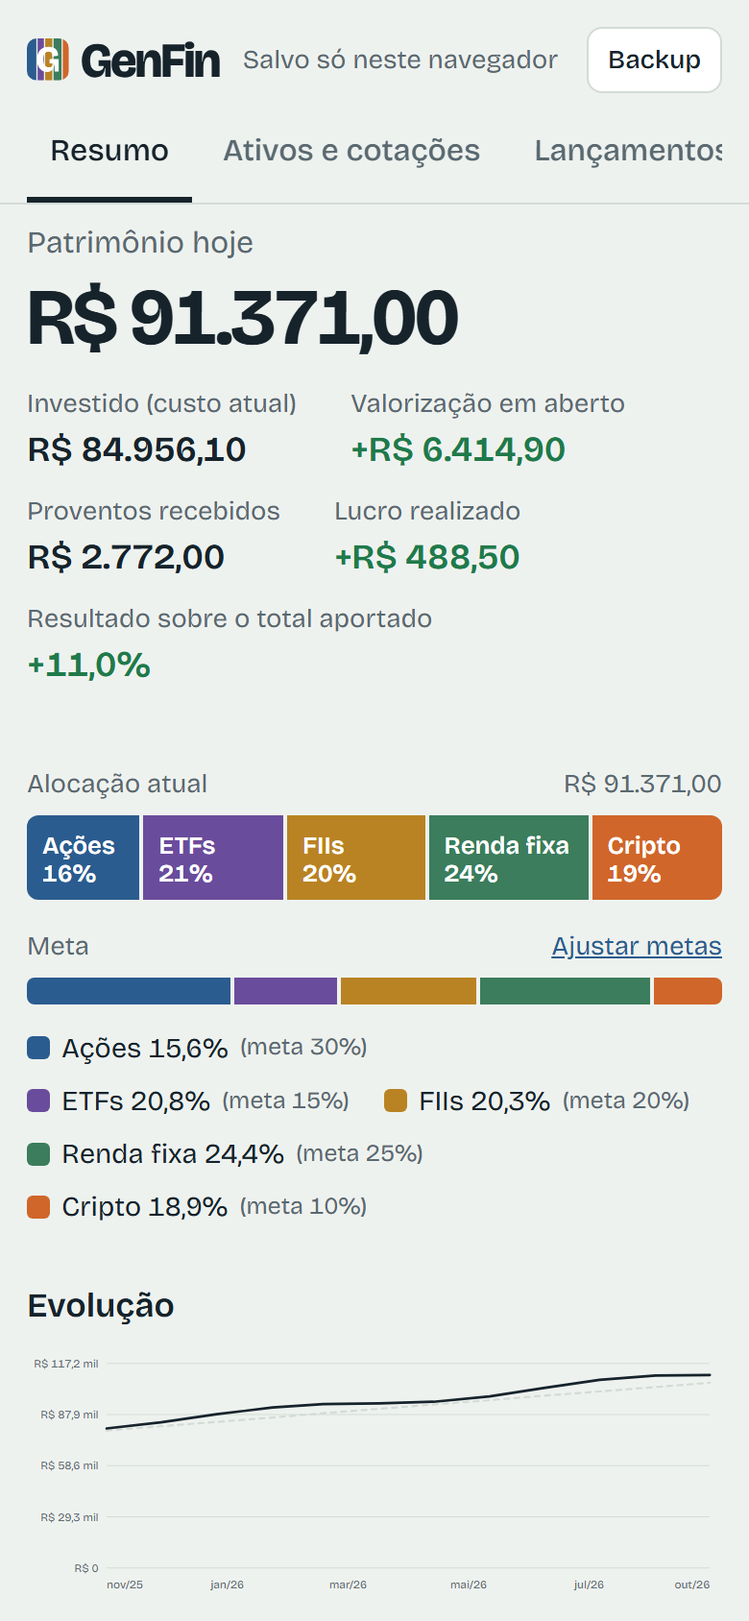
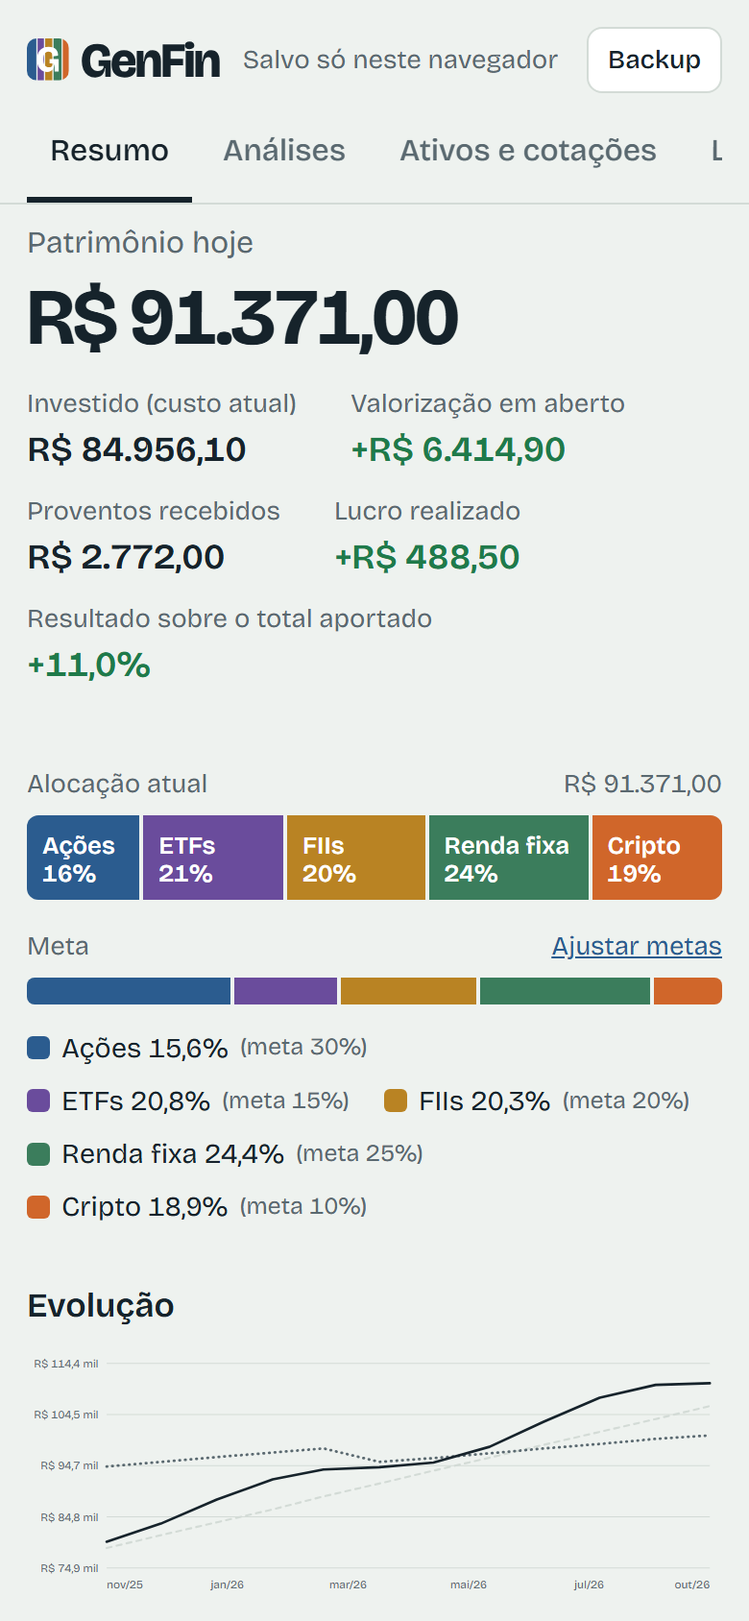
Aba Análises: leituras por regras e resumo opcional com IA (Groq)
- Leituras feitas no aparelho: lançamento inconsistente, concentração acima
  de 20%, distância das metas, cotações antigas, renda fixa desatualizada,
  limites de isenção do mês (ações e cripto), DARF a vencer, prejuízo a
  compensar, CDI e Ibovespa, ativos muito acima ou abaixo do preço médio,
  proventos de 12 meses e lembrete de backup
- Cada leitura tem uma versão sem valores em reais; só ela, percentuais e
  códigos vão para a IA, e a aba mostra exatamente o que é enviado
- Groq com a chave gratuita da pessoa (só no navegador): escolhe o maior
  modelo de texto disponível, pede para não recomendar compra ou venda e
  guarda o último resumo; texto da IA é escapado
- Exportar o backup JSON registra a data, para o lembrete
- 19 testes novos (86 no total)

diff --git a/carteira.html b/carteira.html
@@ -132,6 +132,22 @@ details.chave summary{cursor:pointer;color:var(--focus);width:max-content;max-wi
 .linha-chave input{flex:1 1 220px;min-width:0;border:1px solid var(--line);border-radius:8px;padding:8px 10px;background:var(--bg);color:var(--ink)}
 .altura{max-height:460px;overflow:auto}
 tr.sel{background:var(--soft)}
+
+/* Análises */
+.leituras{display:grid;gap:10px;max-width:760px}
+.leitura{background:var(--surface);border:1px solid var(--line);border-left:4px solid var(--line);border-radius:8px;padding:12px 16px}
+.leitura.atencao{border-left-color:var(--warn)}
+.leitura.positivo{border-left-color:var(--pos)}
+.leitura .nivel{display:block;font-size:.78rem;color:var(--muted)}
+.leitura.atencao .nivel{color:var(--warn)}
+.leitura.positivo .nivel{color:var(--pos)}
+.leitura p{margin:2px 0 6px;color:var(--muted);font-size:.92rem}
+.card.ia{max-width:760px}
+.texto-ia ul{margin:12px 0;padding-left:20px}
+.texto-ia li{margin:6px 0}
+details.enviado{margin-top:8px}
+details.enviado summary{cursor:pointer;color:var(--focus);width:max-content;max-width:100%}
+details.enviado pre{font:12px/1.4 ui-monospace,Menlo,monospace;background:var(--bg);border:1px solid var(--line);border-radius:8px;padding:10px;overflow:auto;max-height:260px;white-space:pre-wrap}
 .acoes-linha{display:inline-flex;gap:6px}
 form.card.editando{border-color:var(--focus);box-shadow:0 0 0 1px var(--focus)}
 .editando-rot{margin:0 0 12px;font-size:.92rem}
@@ -196,6 +212,7 @@ textarea{width:100%;min-height:140px;font:12px/1.4 ui-monospace,Menlo,monospace;
     </div>
     <nav class="abas" role="tablist" id="abas">
       <button role="tab" data-aba="resumo">Resumo</button>
+      <button role="tab" data-aba="analises">Análises</button>
       <button role="tab" data-aba="ativos">Ativos e cotações</button>
       <button role="tab" data-aba="lancamentos">Lançamentos</button>
       <button role="tab" data-aba="proventos">Proventos</button>
@@ -208,6 +225,7 @@ textarea{width:100%;min-height:140px;font:12px/1.4 ui-monospace,Menlo,monospace;
 
 <main class="wrap">
   <section id="v-resumo"></section>
+  <section id="v-analises" hidden></section>
   <section id="v-ativos" hidden></section>
   <section id="v-lancamentos" hidden></section>
   <section id="v-proventos" hidden></section>
@@ -251,7 +269,7 @@ const ORDEM = ["acao","etf","fii","rf","cripto"];
 const MESES = ["jan","fev","mar","abr","mai","jun","jul","ago","set","out","nov","dez"];
 const TIPOS_PROV = { dividendo:"Dividendo", jcp:"JCP", rendimento:"Rendimento", outro:"Outro" };
 const LS_KEY = "carteira-v1";
-const ABAS = ["resumo","ativos","lancamentos","proventos","rebalancear","ir","noticias"];
+const ABAS = ["resumo","analises","ativos","lancamentos","proventos","rebalancear","ir","noticias"];
 
 const BRL = new Intl.NumberFormat("pt-BR",{style:"currency",currency:"BRL"});
 const brl = v => BRL.format(Number.isFinite(v)?v:0);
@@ -500,7 +518,7 @@ function irPara(aba){
 }
 function renderTudo(){ atualizarDatalist(); render(abaAtual); $("#aviso-demo").classList.toggle("oculto", !demo); }
 function render(aba){
-  const f = { resumo:rResumo, ativos:rAtivos, lancamentos:rLancamentos, proventos:rProventos, rebalancear:rRebalancear, ir:rIR, noticias:rNoticias }[aba];
+  const f = { resumo:rResumo, analises:rAnalises, ativos:rAtivos, lancamentos:rLancamentos, proventos:rProventos, rebalancear:rRebalancear, ir:rIR, noticias:rNoticias }[aba];
   f($("#v-"+aba));
 }
 function atualizarDatalist(){
@@ -794,6 +812,183 @@ function comparacao(){
   const fl = fluxosCaixa(); if(!fl.length) return null;
   const cdi = Object.keys(indices.cdi.serie).length && indices.cdi.desde && indices.cdi.desde<=fl[0].data ? simularCDI(fl, indices.cdi.serie) : null;
   return {desde: fl[0].data, cdi, ibov: simularIbov(fl, indices.ibov.serie)};
+}
+
+/* ---------- Análises ---------- */
+// Leituras da carteira feitas por regras, no próprio aparelho: nada sai daqui.
+// Cada leitura tem o texto da tela e "ia", uma versão sem valores em reais, a única que pode ir para a IA.
+const LS_BACKUP = "genfin-backup-em";
+const NIVEIS = { atencao:"Atenção", positivo:"Bom sinal", info:"Para acompanhar" };
+function diasDesde(iso){ return Math.round((Date.parse(hojeISO()+"T12:00") - Date.parse(iso+"T12:00"))/864e5); }
+function analisar(){
+  const out = []; if(!temDados(S)) return out;
+  const add = (nivel, titulo, detalhe, ia, acao) => out.push({nivel, titulo, detalhe, ia, acao});
+  const c = calcular(), total = c.total, abertas = c.lista.filter(p=>p.qtd>0);
+  const peso = p => total>0 ? p.valor/total : 0;
+
+  const prob = vendaSemSaldo(S.txs);
+  if(prob) add("atencao", "Há um lançamento inconsistente", `${descreverVenda(prob.tx)} passa do saldo que havia na data. Preço médio e imposto desse ativo ficam errados até corrigir.`, null, {aba:"lancamentos", rotulo:"Ver lançamentos"});
+
+  // Concentração: um ativo de renda variável acima de 20% do total (renda fixa tem outra natureza de risco)
+  abertas.filter(p=>p.classe!=="rf" && peso(p)>0.2).sort((a,b)=>b.valor-a.valor).forEach(p=>
+    add("atencao", `${p.ticker} é ${pct(peso(p),0)} da carteira`, "Um único ativo acima de 20% do total concentra o risco: um problema nele pesa na carteira inteira.", `${p.ticker} representa ${pct(peso(p),0)} da carteira`));
+
+  // Metas de alocação
+  const soma = ORDEM.reduce((s,k)=>s+(S.metas[k]||0),0);
+  if(Math.abs(soma-100)<0.01 && total>0){
+    ORDEM.forEach(k=>{
+      const atual = c.porClasse[k]/total, meta = (S.metas[k]||0)/100, pp = (atual-meta)*100;
+      if(Math.abs(pp)>=5) add(Math.abs(pp)>=10?"atencao":"info", `${CLASSES[k].nome} ${pp<0?"abaixo":"acima"} da meta em ${Math.abs(pp).toLocaleString("pt-BR",{maximumFractionDigits:0})} p.p.`,
+        `Hoje ${pct(atual)}, meta de ${pct(meta,0)}. ${pp<0?`Faltam ${brl(total*meta-c.porClasse[k])} para chegar lá.`:"Novos aportes nas outras classes aproximam da meta sem precisar vender."}`,
+        `${CLASSES[k].nome}: ${pct(atual)} da carteira contra meta de ${pct(meta,0)}`, {aba:"rebalancear", rotulo:"Rebalancear"});
+    });
+  } else if(soma===0) add("info", "Sem metas de alocação", "Com metas por classe, o app mostra o quanto a carteira se afastou delas e como dividir cada aporte.", null, {aba:"rebalancear", rotulo:"Definir metas"});
+
+  // Cotações antigas: renda variável com mais de 3 dias, renda fixa com mais de 45
+  const rvVelhas = abertas.filter(p=>p.classe!=="rf" && (!S.precos[p.ticker] || diasDesde(S.precos[p.ticker].em)>3)).map(p=>p.ticker);
+  if(rvVelhas.length) add("atencao", `${rvVelhas.length===1?"1 ativo está":rvVelhas.length+" ativos estão"} com cotação antiga ou sem cotação`, `${rvVelhas.join(", ")}. Sem cotação, o ativo entra pelo preço médio e o patrimônio fica impreciso.`, null, {aba:"ativos", rotulo:"Atualizar cotações"});
+  const rfVelhas = abertas.filter(p=>p.classe==="rf" && (!S.precos[p.ticker] || diasDesde(S.precos[p.ticker].em)>45)).map(p=>p.ticker);
+  if(rfVelhas.length) add("info", "Atualize o valor da renda fixa", `${rfVelhas.join(", ")}: sem atualização há mais de 45 dias, o título aparece pelo último valor informado ou pelo valor aplicado.`, null, {aba:"ativos", rotulo:"Atualizar valores"});
+
+  // Imposto de renda do mês: perto dos limites de isenção e DARF a vencer
+  const mes = hojeISO().slice(0,7), doMes = cl => c.vendas.filter(v=>v.mes===mes && v.classe===cl);
+  const vAcao = doMes("acao").reduce((s,v)=>s+v.venda,0), lAcao = doMes("acao").reduce((s,v)=>s+v.lucro,0);
+  if(vAcao>=15000 && vAcao<=20000) add("atencao", "Vendas de ações perto do limite de isenção", `${brl(vAcao)} vendidos em ações neste mês. Até ${brl(20000)}, o lucro é isento; faltam ${brl(20000-vAcao)}.`, `vendas de ações do mês em ${pct(vAcao/20000,0)} do limite de isenção de IR`, {aba:"ir", rotulo:"Ver imposto"});
+  else if(vAcao>20000 && lAcao>0) add("atencao", "Vendas de ações passaram do limite de isenção", `${brl(vAcao)} vendidos neste mês: o lucro de ${brl(lAcao)} paga 15%, com DARF até o fim do mês que vem.`, "vendas de ações do mês passaram do limite de isenção, com lucro tributável", {aba:"ir", rotulo:"Ver imposto"});
+  const vCr = doMes("cripto").reduce((s,v)=>s+v.venda,0);
+  if(vCr>=25000 && vCr<=35000) add("atencao", "Vendas de cripto perto do limite de isenção", `${brl(vCr)} vendidos em cripto neste mês. Até ${brl(35000)}, o ganho é isento; faltam ${brl(35000-vCr)}.`, `vendas de cripto do mês em ${pct(vCr/35000,0)} do limite de isenção de IR`, {aba:"ir", rotulo:"Ver imposto"});
+  const apur = apurarIR(), [ya, ma] = mes.split("-").map(Number);
+  const ant = ma===1 ? `${ya-1}-12` : `${ya}-${String(ma-1).padStart(2,"0")}`;
+  const darf = apur[ant] ? apur[ant].pagar6015 + apur[ant].pagar4600 : 0;
+  if(darf>0) add("atencao", `DARF de ${brl(darf)} vence em ${dataBR(isoLocal(ultimoDiaUtil(ya, ma)))}`, `Imposto das vendas de ${mesBR(ant)}. O vencimento mostrado não considera feriados.`, "há DARF de imposto sobre vendas a pagar neste mês", {aba:"ir", rotulo:"Ver apuração"});
+  const ultMes = Object.keys(apur).sort().pop();
+  if(ultMes && (apur[ultMes].prejRV>0 || apur[ultMes].prejFII>0)) add("info", "Prejuízo para abater de lucros futuros", `${apur[ultMes].prejRV>0?brl(apur[ultMes].prejRV)+" em ações e ETFs":""}${apur[ultMes].prejRV>0&&apur[ultMes].prejFII>0?" e ":""}${apur[ultMes].prejFII>0?brl(apur[ultMes].prejFII)+" em FIIs":""}. Ele reduz o imposto de vendas com lucro mais à frente.`, "há prejuízo acumulado em renda variável para compensar no imposto");
+
+  // Desempenho contra o CDI e o Ibovespa
+  const comp = comparacao();
+  if(comp && comp.cdi && Math.abs(comp.cdi.saldo)>0){
+    const rel = (total-comp.cdi.saldo)/Math.abs(comp.cdi.saldo);
+    add(rel>=0?"positivo":"atencao", `Carteira ${rel>=0?"à frente":"atrás"} do CDI em ${pct(Math.abs(rel))}`, `Com os mesmos aportes, vendas e proventos desde ${dataBR(comp.desde)}, o CDI teria ${brl(comp.cdi.saldo)}; a carteira tem ${brl(total)}.`, `carteira ${pctSinal(rel)} em relação ao mesmo dinheiro no CDI desde ${dataBR(comp.desde)}`);
+  }
+  if(comp && comp.ibov && Math.abs(comp.ibov.saldo)>0){
+    const rel = (total-comp.ibov.saldo)/Math.abs(comp.ibov.saldo);
+    add("info", `Carteira ${rel>=0?"à frente":"atrás"} do Ibovespa em ${pct(Math.abs(rel))}${comp.ibov.aproximado?" (aproximado)":""}`, `O mesmo dinheiro no índice teria ${brl(comp.ibov.saldo)}.`, `carteira ${pctSinal(rel)} em relação ao mesmo dinheiro no Ibovespa${comp.ibov.aproximado?" (aproximado)":""}`);
+  }
+
+  // Ativos muito acima ou abaixo do preço médio
+  abertas.filter(p=>p.classe!=="rf" && p.custo>0 && p.cot!=null && p.resultado/p.custo<=-0.2).sort((a,b)=>a.resultado/a.custo-b.resultado/b.custo).slice(0,3).forEach(p=>
+    add("info", `${p.ticker} está ${pct(-p.resultado/p.custo,0)} abaixo do preço médio`, `Preço médio ${brl(p.pm)}, cotação ${brl(p.cot)}. Vale rever se o motivo da compra continua de pé.`, `${p.ticker} ${pctSinal(p.resultado/p.custo)} contra o preço médio`));
+  abertas.filter(p=>p.classe!=="rf" && p.custo>0 && p.cot!=null && p.resultado/p.custo>=0.5).sort((a,b)=>b.resultado/b.custo-a.resultado/a.custo).slice(0,3).forEach(p=>
+    add("positivo", `${p.ticker} valorizou ${pct(p.resultado/p.custo,0)}`, `Preço médio ${brl(p.pm)}, cotação ${brl(p.cot)}. Com a alta, o peso dele na carteira também cresceu: hoje ${pct(peso(p))}.`, `${p.ticker} ${pctSinal(p.resultado/p.custo)} contra o preço médio, peso de ${pct(peso(p))}`));
+
+  // Proventos: últimos 12 meses contra os 12 anteriores
+  const hoje = hojeISO(), lim1 = somarDias(hoje,-365), lim2 = somarDias(hoje,-730);
+  const p12 = S.provs.filter(p=>p.data>lim1).reduce((s,p)=>s+p.valor,0), p24 = S.provs.filter(p=>p.data>lim2 && p.data<=lim1).reduce((s,p)=>s+p.valor,0);
+  const custoRV = abertas.filter(p=>p.classe!=="rf").reduce((s,p)=>s+p.custo,0);
+  if(p12>0 && custoRV>0) add("info", `Proventos de ${pct(p12/custoRV)} sobre o custo em 12 meses`, `${brl(p12)} recebidos, ${brl(p12/12)} por mês em média.${p24>0?` Nos 12 meses anteriores foram ${brl(p24)} (${pctSinal(p12/p24-1)}).`:""}`, `proventos dos últimos 12 meses equivalem a ${pct(p12/custoRV)} do custo da renda variável${p24>0?`, ${pctSinal(p12/p24-1)} contra os 12 meses anteriores`:""}`, {aba:"proventos", rotulo:"Ver proventos"});
+
+  // Backup: cada aparelho guarda os próprios dados
+  const bk = Number(lerLS(LS_BACKUP)||0), dBk = bk ? Math.floor((Date.now()-bk)/864e5) : null;
+  if(S.txs.length && (dBk===null || dBk>30)) add("info", dBk===null ? "Nenhum backup feito neste aparelho" : `Último backup há ${dBk} dias`, "Os dados ficam só neste aparelho. Um backup recente evita perder tudo se o navegador for limpo ou o celular trocado.", null, {act:"backup", rotulo:"Fazer backup"});
+
+  const ordem = {atencao:0, positivo:1, info:2};
+  return out.sort((a,b)=>ordem[a.nivel]-ordem[b.nivel]);
+}
+
+/* Resumo com IA (opcional): Groq, com a chave gratuita da pessoa, guardada só neste navegador.
+   Vão só percentuais, códigos e as leituras acima na versão sem valores em reais. */
+const LS_GROQ = "genfin-groq-chave", LS_IA = "genfin-ia-resumo";
+let gerandoIA = false;
+function dadosParaIA(){
+  const c = calcular(), total = c.total, comp = comparacao();
+  const soma = ORDEM.reduce((s,k)=>s+(S.metas[k]||0),0);
+  const r1 = v => Math.round(v*1000)/10;   // fração -> percentual com 1 casa
+  const ganho = (c.total-c.custo)+c.realizado+c.provs;
+  return {
+    data: hojeISO(),
+    classes: ORDEM.filter(k=>c.porClasse[k]>0 || S.metas[k]>0).map(k=>({classe:CLASSES[k].nome, carteira_pct: total>0?r1(c.porClasse[k]/total):0, meta_pct: soma>0?r1((S.metas[k]||0)/soma):null})),
+    posicoes: c.lista.filter(p=>p.qtd>0).sort((a,b)=>b.valor-a.valor).slice(0,15).map(p=>({ativo:p.ticker, classe:CLASSES[p.classe].nome, peso_pct: total>0?r1(p.valor/total):0, resultado_pct: p.custo>0?r1(p.resultado/p.custo):null})),
+    resultado_sobre_aportado_pct: c.aportado>0 ? r1(ganho/c.aportado) : null,
+    contra_cdi_pct: comp && comp.cdi && comp.cdi.saldo ? r1((total-comp.cdi.saldo)/Math.abs(comp.cdi.saldo)) : null,
+    contra_ibovespa_pct: comp && comp.ibov && comp.ibov.saldo ? r1((total-comp.ibov.saldo)/Math.abs(comp.ibov.saldo)) : null,
+    desde: comp ? comp.desde : null,
+    leituras: analisar().filter(a=>a.ia).map(a=>a.ia)
+  };
+}
+const INSTRUCAO_IA = "Você ajuda uma pessoa física no Brasil a entender a própria carteira de investimentos. Responda em português do Brasil, em no máximo 6 tópicos curtos, cada um começando com \"- \". Explique o que os números mostram (concentração, distância das metas, desempenho contra o CDI e o Ibovespa, proventos, pontos de imposto de renda) e o que vale a pessoa verificar. Não recomende comprar ou vender ativos específicos, não faça previsão de preços e não invente dados que não estejam na mensagem. Os dados vêm só em percentuais, sem valores em reais.";
+async function modeloGroq(chave){
+  let r; try{ r = await fetch("https://api.groq.com/openai/v1/models", {headers:{Authorization:"Bearer "+chave}, ...comPrazo()}); }
+  catch(e){ throw erroCot("rede"); }
+  if(r.status===401) throw erroCot("chave");
+  if(!r.ok) throw erroCot("servico");
+  const ids = ((await r.json()).data||[]).map(m=>m.id);
+  // Os modelos do Groq mudam; prefere os maiores de texto e evita os de áudio, moderação e busca
+  for(const p of [/^openai\/gpt-oss-120b$/, /^llama-3\.3-70b/, /llama-4-maverick/, /^qwen/, /llama/])
+    { const m = ids.find(id=>p.test(id)); if(m) return m; }
+  return ids.find(id=>!/whisper|guard|tts|embed|playai|compound|prompt/i.test(id)) || null;
+}
+async function gerarResumoIA(){
+  if(gerandoIA) return;
+  const chave = lerLS(LS_GROQ); if(!chave){ toast("Cole a chave do Groq antes de gerar o resumo."); return; }
+  if(demo){ toast("No modo exemplo os dados são fictícios; saia do exemplo para gerar o resumo."); return; }
+  gerandoIA = true; if(abaAtual==="analises") render("analises");
+  let res;
+  try{
+    const modelo = await modeloGroq(chave);
+    if(!modelo) throw erroCot("servico");
+    let r; try{
+      r = await fetch("https://api.groq.com/openai/v1/chat/completions", {method:"POST", headers:{Authorization:"Bearer "+chave, "Content-Type":"application/json"},
+        body: JSON.stringify({model:modelo, temperature:0.3, max_tokens:900, messages:[{role:"system", content:INSTRUCAO_IA}, {role:"user", content:"Dados da carteira:\n"+JSON.stringify(dadosParaIA())}]}), ...comPrazo()});
+    }catch(e){ throw erroCot("rede"); }
+    if(r.status===401) throw erroCot("chave");
+    if(r.status===429) throw erroCot("limite");
+    if(!r.ok) throw erroCot("servico");
+    const j = await r.json(), texto = j.choices && j.choices[0] && j.choices[0].message && j.choices[0].message.content;
+    if(!texto) throw erroCot("servico");
+    res = {texto: String(texto).trim(), modelo, em: Date.now()};
+    gravarLS(LS_IA, JSON.stringify(res));
+  }catch(e){
+    toast({chave:"O Groq recusou a chave. Confira a chave e cole de novo.", limite:"O Groq atingiu o limite do plano gratuito. Tente daqui a pouco.", rede:"Não foi possível acessar o Groq. Confira a internet."}[e.tipo] || "O Groq não respondeu como esperado. Tente de novo.");
+  }finally{ gerandoIA = false; if(abaAtual==="analises") render("analises"); }
+}
+// Texto da IA: escapado e com os tópicos "- " virando lista
+function textoIA(t){
+  const linhas = String(t).replace(/\*\*/g,"").split("\n").map(l=>l.trim()).filter(Boolean);
+  let html = "", lista = false;
+  for(const l of linhas){
+    const item = /^[-•*]\s+/.test(l);
+    if(item && !lista){ html += "<ul>"; lista = true; } else if(!item && lista){ html += "</ul>"; lista = false; }
+    html += item ? `<li>${esc(l.replace(/^[-•*]\s+/,""))}</li>` : `<p>${esc(l)}</p>`;
+  }
+  return html + (lista ? "</ul>" : "");
+}
+function rAnalises(el){
+  if(!temDados(S)){ el.innerHTML = `<h2>Análises</h2><p class="sub">As leituras aparecem depois do primeiro lançamento. <button class="link" data-act="ir-aba" data-aba="lancamentos">Adicionar lançamento</button></p>`; return; }
+  const itens = analisar(), chave = lerLS(LS_GROQ);
+  let ult = null; try{ ult = JSON.parse(lerLS(LS_IA)||"null"); }catch(e){}
+  el.innerHTML = `<h2>Análises</h2>
+  <p class="sub">Leituras automáticas da carteira, feitas neste aparelho com as regras do app. Servem para chamar atenção, não são recomendação de investimento.</p>
+  <div class="leituras">${itens.length ? itens.map(i=>`<div class="leitura ${i.nivel}">
+    <span class="nivel">${NIVEIS[i.nivel]}</span><strong>${esc(i.titulo)}</strong><p>${esc(i.detalhe)}</p>
+    ${i.acao ? (i.acao.aba ? `<button class="link" data-act="ir-aba" data-aba="${i.acao.aba}">${esc(i.acao.rotulo)}</button>` : `<button class="link" data-act="${i.acao.act}">${esc(i.acao.rotulo)}</button>`) : ""}
+  </div>`).join("") : `<p class="nota">Nada chamando atenção agora.</p>`}</div>
+
+  <h3>Resumo com IA</h3>
+  <div class="card ia">
+    ${chave ? `<div class="cotbar"><button class="btn pri" data-act="gerar-ia"${gerandoIA?" disabled":""}>${gerandoIA?"Gerando resumo…":(ult?"Gerar de novo":"Gerar resumo")}</button>
+      <span class="nota">${ult ? `Gerado ${new Date(ult.em).toLocaleDateString("pt-BR")} às ${new Date(ult.em).toLocaleTimeString("pt-BR",{hour:"2-digit",minute:"2-digit"})}, modelo ${esc(ult.modelo)}` : "Leva alguns segundos."}</span></div>
+      ${ult ? `<div class="texto-ia">${textoIA(ult.texto)}</div><p class="nota">Texto gerado por IA a partir dos dados abaixo; pode conter erros. Confira antes de decidir qualquer coisa.</p>` : ""}`
+    : `<p class="nota" style="margin-top:0">Opcional: um texto curto escrito por IA a partir das leituras acima, pelo <a href="https://console.groq.com/keys" target="_blank" rel="noopener noreferrer">Groq</a>, que tem plano gratuito. Crie uma chave lá e cole aqui. Ela fica só neste navegador.</p>`}
+    <details class="chave"${chave?"":" open"}>
+      <summary>${chave?"Chave do Groq configurada":"Configurar a chave do Groq"}</summary>
+      <div class="linha-chave"><input id="chave-groq" type="password" autocomplete="off" spellcheck="false" placeholder="${chave?"Cole uma nova chave para trocar":"Cole a chave aqui"}" aria-label="Chave do Groq">
+        <button class="btn" data-act="salvar-groq">Salvar chave</button>${chave?`<button class="btn perigo" data-act="remover-groq" data-armar="Confirmar">Remover</button>`:""}</div>
+    </details>
+    <details class="enviado"><summary>O que vai para o Groq</summary>
+      <p class="nota">Só percentuais, códigos dos ativos e as leituras na versão sem valores em reais. Quantidades, preços e o patrimônio não saem do aparelho.</p>
+      <pre>${esc(JSON.stringify(dadosParaIA(), null, 1))}</pre>
+    </details>
+  </div>`;
 }
 
 /* ---------- Ativos e cotações ---------- */
@@ -1322,7 +1517,7 @@ document.addEventListener("click", e=>{
   else if(a==="del-prov"){ if(demo){ toast("No modo exemplo nada é alterado."); return; } delProv(b.dataset.id); }
   else if(a==="backup"){ $("#backup-texto").classList.add("oculto"); $("#backup-msg").textContent=""; $("#dlg-backup").showModal(); }
   else if(a==="fechar-backup") $("#dlg-backup").close();
-  else if(a==="exportar-json") baixar("carteira-backup-"+hojeISO()+".json", JSON.stringify(demo?realGuardado:S,null,1));
+  else if(a==="exportar-json"){ gravarLS(LS_BACKUP, String(Date.now())); baixar("carteira-backup-"+hojeISO()+".json", JSON.stringify(demo?realGuardado:S,null,1)); }
   else if(a==="exportar-csv") baixar("lancamentos-"+hojeISO()+".csv", csvLanc());
   else if(a==="atualizar-cot") atualizarCotacoes();
   else if(a==="salvar-chave"){
@@ -1331,6 +1526,13 @@ document.addEventListener("click", e=>{
     gravarLS(LS_CHAVE, v); toast("Chave salva. Buscando cotações…"); atualizarCotacoes();
   }
   else if(a==="remover-chave"){ gravarLS(LS_CHAVE, ""); render("ativos"); toast("Chave removida"); }
+  else if(a==="gerar-ia") gerarResumoIA();
+  else if(a==="salvar-groq"){
+    const v = $("#chave-groq").value.trim();
+    if(!v){ toast("Cole a chave antes de salvar."); return; }
+    gravarLS(LS_GROQ, v); render("analises"); toast("Chave do Groq salva");
+  }
+  else if(a==="remover-groq"){ gravarLS(LS_GROQ, ""); render("analises"); toast("Chave do Groq removida"); }
   else if(a==="apagar-tudo"){ if(demo) sairDemo(); S=vazio(); salvar(...TODOS_DOCS); renderTudo(); b.classList.remove("armado"); b.textContent="Apagar todos os dados"; $("#backup-msg").textContent="Todos os dados foram apagados."; }
 });
 document.addEventListener("change", e=>{
@@ -1340,6 +1542,7 @@ document.addEventListener("change", e=>{
 document.addEventListener("keydown", e=>{
   if(e.key==="Enter" && e.target.matches("input.cot")) e.target.blur();
   if(e.key==="Enter" && e.target.id==="chave-brapi") $('[data-act="salvar-chave"]').click();
+  if(e.key==="Enter" && e.target.id==="chave-groq") $('[data-act="salvar-groq"]').click();
 });
 window.addEventListener("hashchange", ()=>{ const h=location.hash.slice(1); if(ABAS.includes(h)) irPara(h); });
 

diff --git a/tests/carteira.test.js b/tests/carteira.test.js
@@ -266,6 +266,56 @@ await atualizarIndices();
 ok(indices.cdi.serie["2026-03-03"]===0.05 && buscandoIndices===false, "sem rede mantém as séries e libera nova busca");
 mem[LS_CHAVE] = "";
 
+// 12. análises por regras e resumo com IA
+buscandoIndices = false; delete mem[LS_INDICES]; indices = lerIndices(); delete mem[LS_BACKUP];
+S = vazio(); S.atualizado = 1;
+const hj = hojeISO(), mesAtual = hj.slice(0,7), dAnt = somarDias(mesAtual+"-01", -10), d200 = somarDias(hj, -200);
+add({classe:"acao",tipo:"compra",data:d200,ticker:"PETR4",qtd:"1000",preco:"30"});
+add({classe:"acao",tipo:"compra",data:d200,ticker:"VALE3",qtd:"300",preco:"70"});
+add({classe:"fii",tipo:"compra",data:d200,ticker:"HGLG11",qtd:"50",preco:"160"});
+add({classe:"rf",tipo:"compra",data:d200,ticker:"CDB W",valor:"20000"});
+add({classe:"acao",tipo:"venda",data:dAnt,ticker:"VALE3",qtd:"300",preco:"80"});           // 24 mil no mês passado: paga IR
+add({classe:"acao",tipo:"venda",data:hj,ticker:"PETR4",qtd:"500",preco:"34"});             // 17 mil neste mês: perto do limite
+S.precos = { PETR4:{v:34.56,em:hj}, HGLG11:{v:150,em:somarDias(hj,-10)}, "CDB W":{v:21000,em:somarDias(hj,-90)} };
+S.metas = {acao:20,etf:0,fii:30,rf:50,cripto:0};
+S.provs.push({id:"q1",data:somarDias(hj,-40),ticker:"HGLG11",tipo:"rendimento",valor:400});
+const leit = analisar(), achar = r => leit.find(i=>r.test(i.titulo));
+ok(achar(/PETR4 é \\d+% da carteira/) && achar(/PETR4 é/).nivel==="atencao", "concentração acima de 20%: "+(achar(/PETR4 é/)||{}).titulo);
+ok(achar(/Renda fixa abaixo da meta/) || achar(/Ações acima da meta/), "distância da meta");
+ok(achar(/cotação antiga/) && /HGLG11/.test(achar(/cotação antiga/).detalhe) && !/PETR4/.test(achar(/cotação antiga/).detalhe), "cotação antiga só de quem passou de 3 dias");
+ok(achar(/valor da renda fixa/) && /CDB W/.test(achar(/valor da renda fixa/).detalhe), "renda fixa sem atualização há mais de 45 dias");
+ok(achar(/perto do limite de isenção/) && /faltam R\\$/.test(achar(/perto do limite/).detalhe), "vendas de ações perto dos 20 mil");
+ok(achar(/^DARF de R\\$\\s.* vence em/), "DARF do mês passado a vencer: "+(achar(/^DARF/)||{}).titulo);
+ok(achar(/Proventos de .* sobre o custo/), "proventos dos últimos 12 meses");
+ok(achar(/Nenhum backup/) && achar(/Nenhum backup/).acao.act==="backup", "lembra do backup");
+ok(leit.findIndex(i=>i.nivel!=="atencao") > leit.map(i=>i.nivel).lastIndexOf("atencao"), "atenção vem primeiro");
+mem[LS_BACKUP] = String(Date.now()); ok(!analisar().some(i=>/backup/i.test(i.titulo)), "backup recente some da lista");
+
+const dIA = dadosParaIA(), jIA = JSON.stringify(dIA), totalAgora = calcular().total;
+ok(!/R\\$/.test(jIA) && !jIA.includes(String(Math.round(totalAgora))) && !jIA.includes(brl(totalAgora).replace("R$","").trim()), "dados para a IA sem valores em reais");
+ok(dIA.posicoes[0].ativo && typeof dIA.posicoes[0].peso_pct==="number" && dIA.leituras.length>0, "dados para a IA com pesos e leituras");
+
+let corpoIA = null; chamadas = [];
+globalThis.__fetch = (url, op={}) => {
+  chamadas.push(url);
+  if(url.endsWith("/models")) return op.headers.Authorization==="Bearer gsk-boa" ? resp(200, {data:[{id:"whisper-large-v3"},{id:"llama-3.3-70b-versatile"},{id:"openai/gpt-oss-120b"}]}) : resp(401, {});
+  if(url.endsWith("/chat/completions")){ corpoIA = JSON.parse(op.body); return resp(200, {choices:[{message:{content:"- **Concentração**: PETR4 pesa muito.\\n- Renda fixa abaixo da meta.\\nTexto final <script>x</script>"}}]}); }
+  return resp(404, {});
+};
+avisos2 = []; mem[LS_GROQ] = "gsk-ruim"; await gerarResumoIA();
+ok(/recusou a chave/.test(avisos2[0]||"") && !mem[LS_IA] && gerandoIA===false, "chave do Groq recusada avisa e libera");
+mem[LS_GROQ] = "gsk-boa"; await gerarResumoIA();
+ok(corpoIA && corpoIA.model==="openai/gpt-oss-120b", "escolhe o maior modelo de texto disponível: "+(corpoIA&&corpoIA.model));
+ok(corpoIA && !/R\\$/.test(JSON.stringify(corpoIA)) && /Não recomende comprar ou vender/.test(corpoIA.messages[0].content), "requisição para o Groq sem reais e com a instrução de não recomendar");
+const guardado = JSON.parse(mem[LS_IA]||"{}");
+ok(guardado.modelo==="openai/gpt-oss-120b" && /PETR4/.test(guardado.texto), "guarda o último resumo");
+const html = textoIA(guardado.texto);
+ok(/<ul><li>Concentração: PETR4 pesa muito\\.<\\/li><li>Renda fixa abaixo da meta\\.<\\/li><\\/ul><p>Texto final &lt;script&gt;x&lt;\\/script&gt;<\\/p>/.test(html), "texto da IA vira lista e é escapado: "+html);
+const elA2 = fakeEl(); rAnalises(elA2);
+ok(/Atenção/.test(elA2.innerHTML) && /Gerar de novo/.test(elA2.innerHTML) && /O que vai para o Groq/.test(elA2.innerHTML), "aba Análises mostra leituras, IA e o que é enviado");
+ok(!JSON.stringify(S).includes("gsk-boa"), "a chave do Groq não vai para o backup");
+mem[LS_GROQ] = "";
+
 console.log(falhas? falhas+" falha(s)" : "todos passaram");
 return falhas;
 `;

diff --git a/README.md b/README.md
@@ -45,6 +45,7 @@ Preço médio, alocação, proventos, rebalanceamento e imposto de renda para qu
 | | |
 |---|---|
 | 📊 **Resumo** | Patrimônio, valorização em aberto, lucro realizado, proventos e resultado sobre o total aportado. Alocação atual comparada com a meta, gráfico de evolução e comparação com o CDI e o Ibovespa. |
+| 🔎 **Análises** | Leituras automáticas feitas no aparelho: concentração, distância das metas, cotações antigas, limites de isenção e DARF do mês, desempenho contra o CDI, proventos e lembrete de backup. Resumo opcional escrito por IA (Groq, plano gratuito). |
 | 💹 **Ativos e cotações** | Posição por classe com quantidade, preço médio, valor de mercado, resultado e peso na carteira. Cotações automáticas de ações, ETFs, FIIs e cripto; renda fixa e correções, à mão. |
 | 🧾 **Lançamentos** | Compras e vendas com taxas da nota de corretagem. Aplicações e resgates de renda fixa. Editar e excluir, sempre impedindo vendas maiores que o saldo, inclusive em datas retroativas. |
 | 💰 **Proventos** | Dividendos, JCP e rendimentos de FIIs, com gráfico dos últimos 12 meses e rendimento sobre o custo por ativo. |
@@ -58,11 +59,14 @@ Cinco classes de ativo: **ações**, **ETFs**, **FIIs**, **renda fixa** e **crip
 
 <table>
   <tr>
+    <td width="50%"><img src="docs/img/analises.png" alt="Análises"><p align="center"><sub>Análises</sub></p></td>
     <td width="50%"><img src="docs/img/ativos.png" alt="Ativos e cotações"><p align="center"><sub>Ativos e cotações</sub></p></td>
-    <td width="50%"><img src="docs/img/proventos.png" alt="Proventos"><p align="center"><sub>Proventos</sub></p></td>
   </tr>
   <tr>
+    <td width="50%"><img src="docs/img/proventos.png" alt="Proventos"><p align="center"><sub>Proventos</sub></p></td>
     <td width="50%"><img src="docs/img/rebalancear.png" alt="Rebalancear"><p align="center"><sub>Rebalancear</sub></p></td>
+  </tr>
+  <tr>
     <td width="50%"><img src="docs/img/ir.png" alt="Imposto de renda"><p align="center"><sub>Imposto de renda</sub></p></td>
   </tr>
 </table>
@@ -126,7 +130,8 @@ flowchart LR
 ```
 
 - **Sempre no navegador**, na chave `carteira-v1` do `localStorage`. Fora do claude.ai, a carteira não sai do seu computador. Para as cotações, só os **códigos** dos ativos (como `PETR4` ou `BTC`) vão para a brapi e o Mercado Bitcoin; quantidades e valores nunca são enviados.
-- **A chave da brapi** fica só no navegador, separada da carteira. Ela não entra no backup nem vai para a conta.
+- **As chaves da brapi e do Groq** ficam só no navegador, separadas da carteira. Elas não entram no backup nem vão para a conta.
+- **Resumo com IA (opcional):** só vai para o [Groq](https://console.groq.com) o que aparece em "O que vai para o Groq", na aba Análises: percentuais, códigos dos ativos e as leituras escritas sem valores em reais. Quantidades, preços e o patrimônio não saem do aparelho. O app pede à IA que explique os números e não recomende compra ou venda.
 - **No claude.ai**, também na conta do usuário, em quatro documentos (`carteira`, `lancamentos`, `proventos` e `historico`). Cada salvamento leva data e hora. Ao abrir, o lado mais recente vence, para não perder alterações feitas sem conexão.
 - **Backup:** o botão no topo exporta tudo em `.json`, exporta os lançamentos em `.csv` e restaura um backup. Os arquivos exportados estão no `.gitignore`, para não irem parar no repositório por engano.
 
